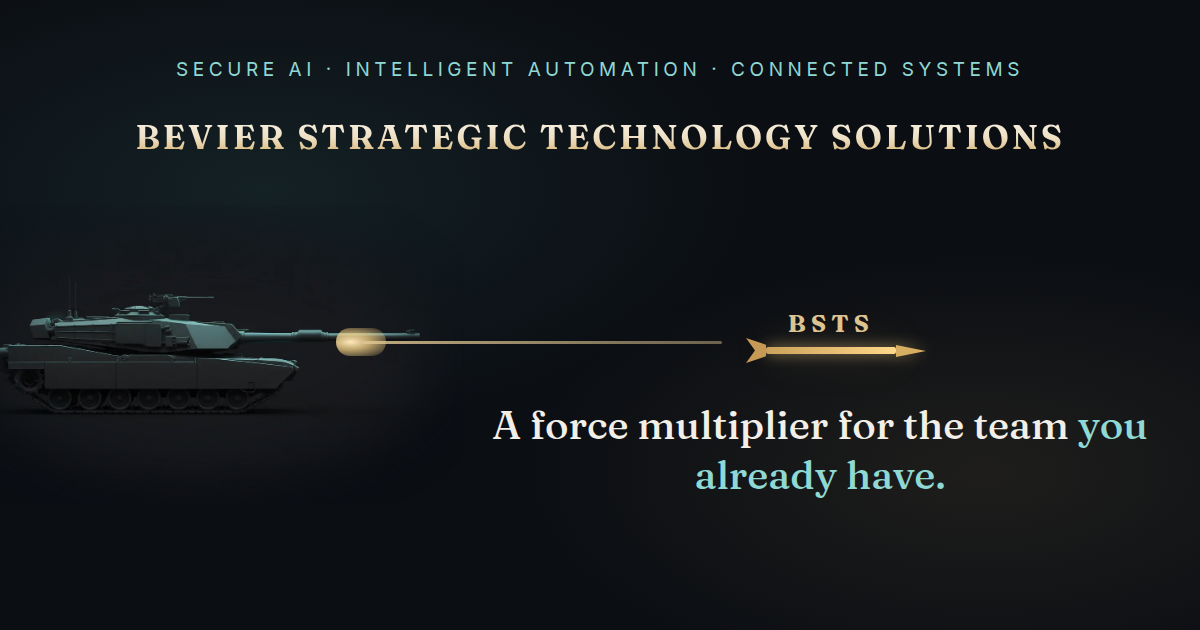
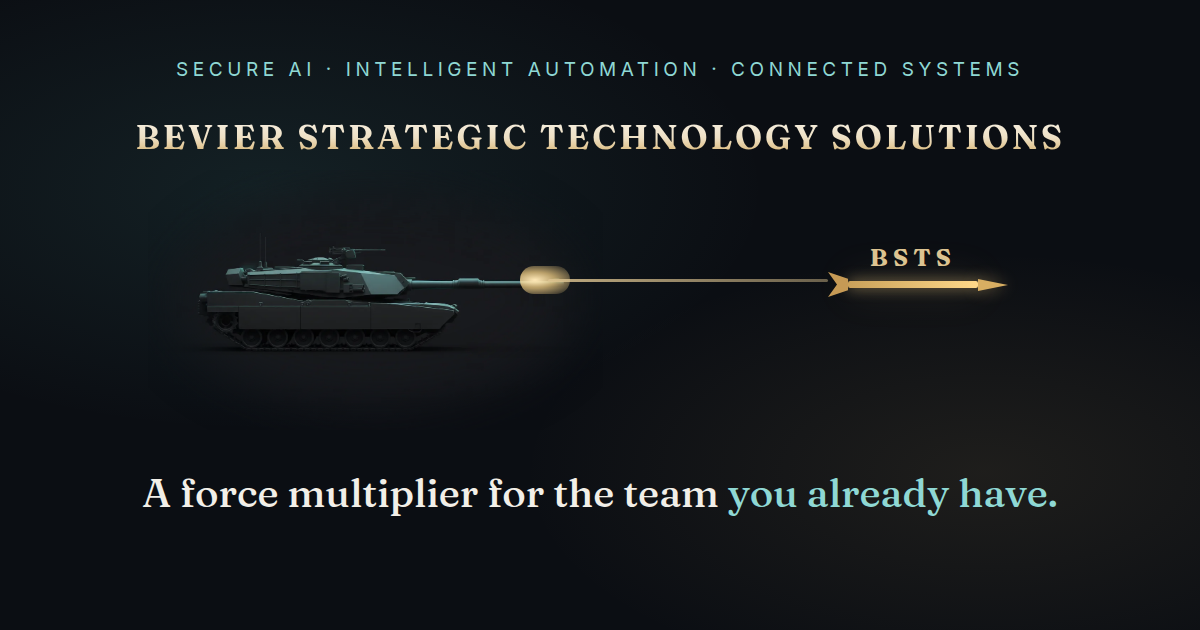
Center the share card: name, tank+tracer+sabot group, and tagline all aligned on the card's axis
Claude-Session: https://claude.ai/code/session_01BFhDZW1Hsg1exVyk93r5S7

diff --git a/og-src.html b/og-src.html
@@ -33,19 +33,19 @@
     background-image: linear-gradient(180deg, #f8f3e8 0%, #eee0c4 52%, #d3ab61 100%);
     -webkit-background-clip: text; background-clip: text; color: transparent;
   }
-  .tank { position: absolute; top: 205px; left: -60px; height: 300px; width: auto;
+  .tank { position: absolute; top: 170px; left: 148px; height: 260px; width: auto;
     -webkit-mask-image: radial-gradient(ellipse 92% 88% at 50% 50%, black 55%, transparent 98%);
     mask-image: radial-gradient(ellipse 92% 88% at 50% 50%, black 55%, transparent 98%);
   }
   .flash {
-    position: absolute; top: 328px; left: 336px; width: 50px; height: 28px; border-radius: 999px;
+    position: absolute; top: 266px; left: 520px; width: 50px; height: 28px; border-radius: 999px;
     background: radial-gradient(ellipse at 30% 50%, #ffe9b8 0%, rgba(255,217,138,0.7) 40%, rgba(255,217,138,0) 100%);
   }
   .line {
-    position: absolute; top: 341px; left: 362px; width: 360px; height: 3px; border-radius: 999px;
+    position: absolute; top: 279px; left: 548px; width: 280px; height: 3px; border-radius: 999px;
     background: linear-gradient(90deg, rgba(221,196,145,0.85), rgba(221,196,145,0.45));
   }
-  .dart { position: absolute; top: 309px; left: 756px; width: 150px; }
+  .dart { position: absolute; top: 243px; left: 838px; width: 150px; }
   .dart .label {
     display: block; text-align: center; font-family: Fraunces, serif; font-weight: 700;
     font-size: 24px; letter-spacing: 0.22em; color: #ddc491; margin-bottom: 9px;
@@ -62,7 +62,7 @@
     background: #c69a55; clip-path: polygon(100% 27%, 0 0, 45% 50%, 0 100%, 100% 73%);
   }
   .tagline {
-    position: absolute; top: 400px; left: 480px; right: 40px; text-align: center;
+    position: absolute; top: 468px; left: 0; right: 0; text-align: center;
     font-family: Fraunces, serif; font-weight: 480; font-size: 40px; color: #f2efe8;
     line-height: 1.25;
   }
